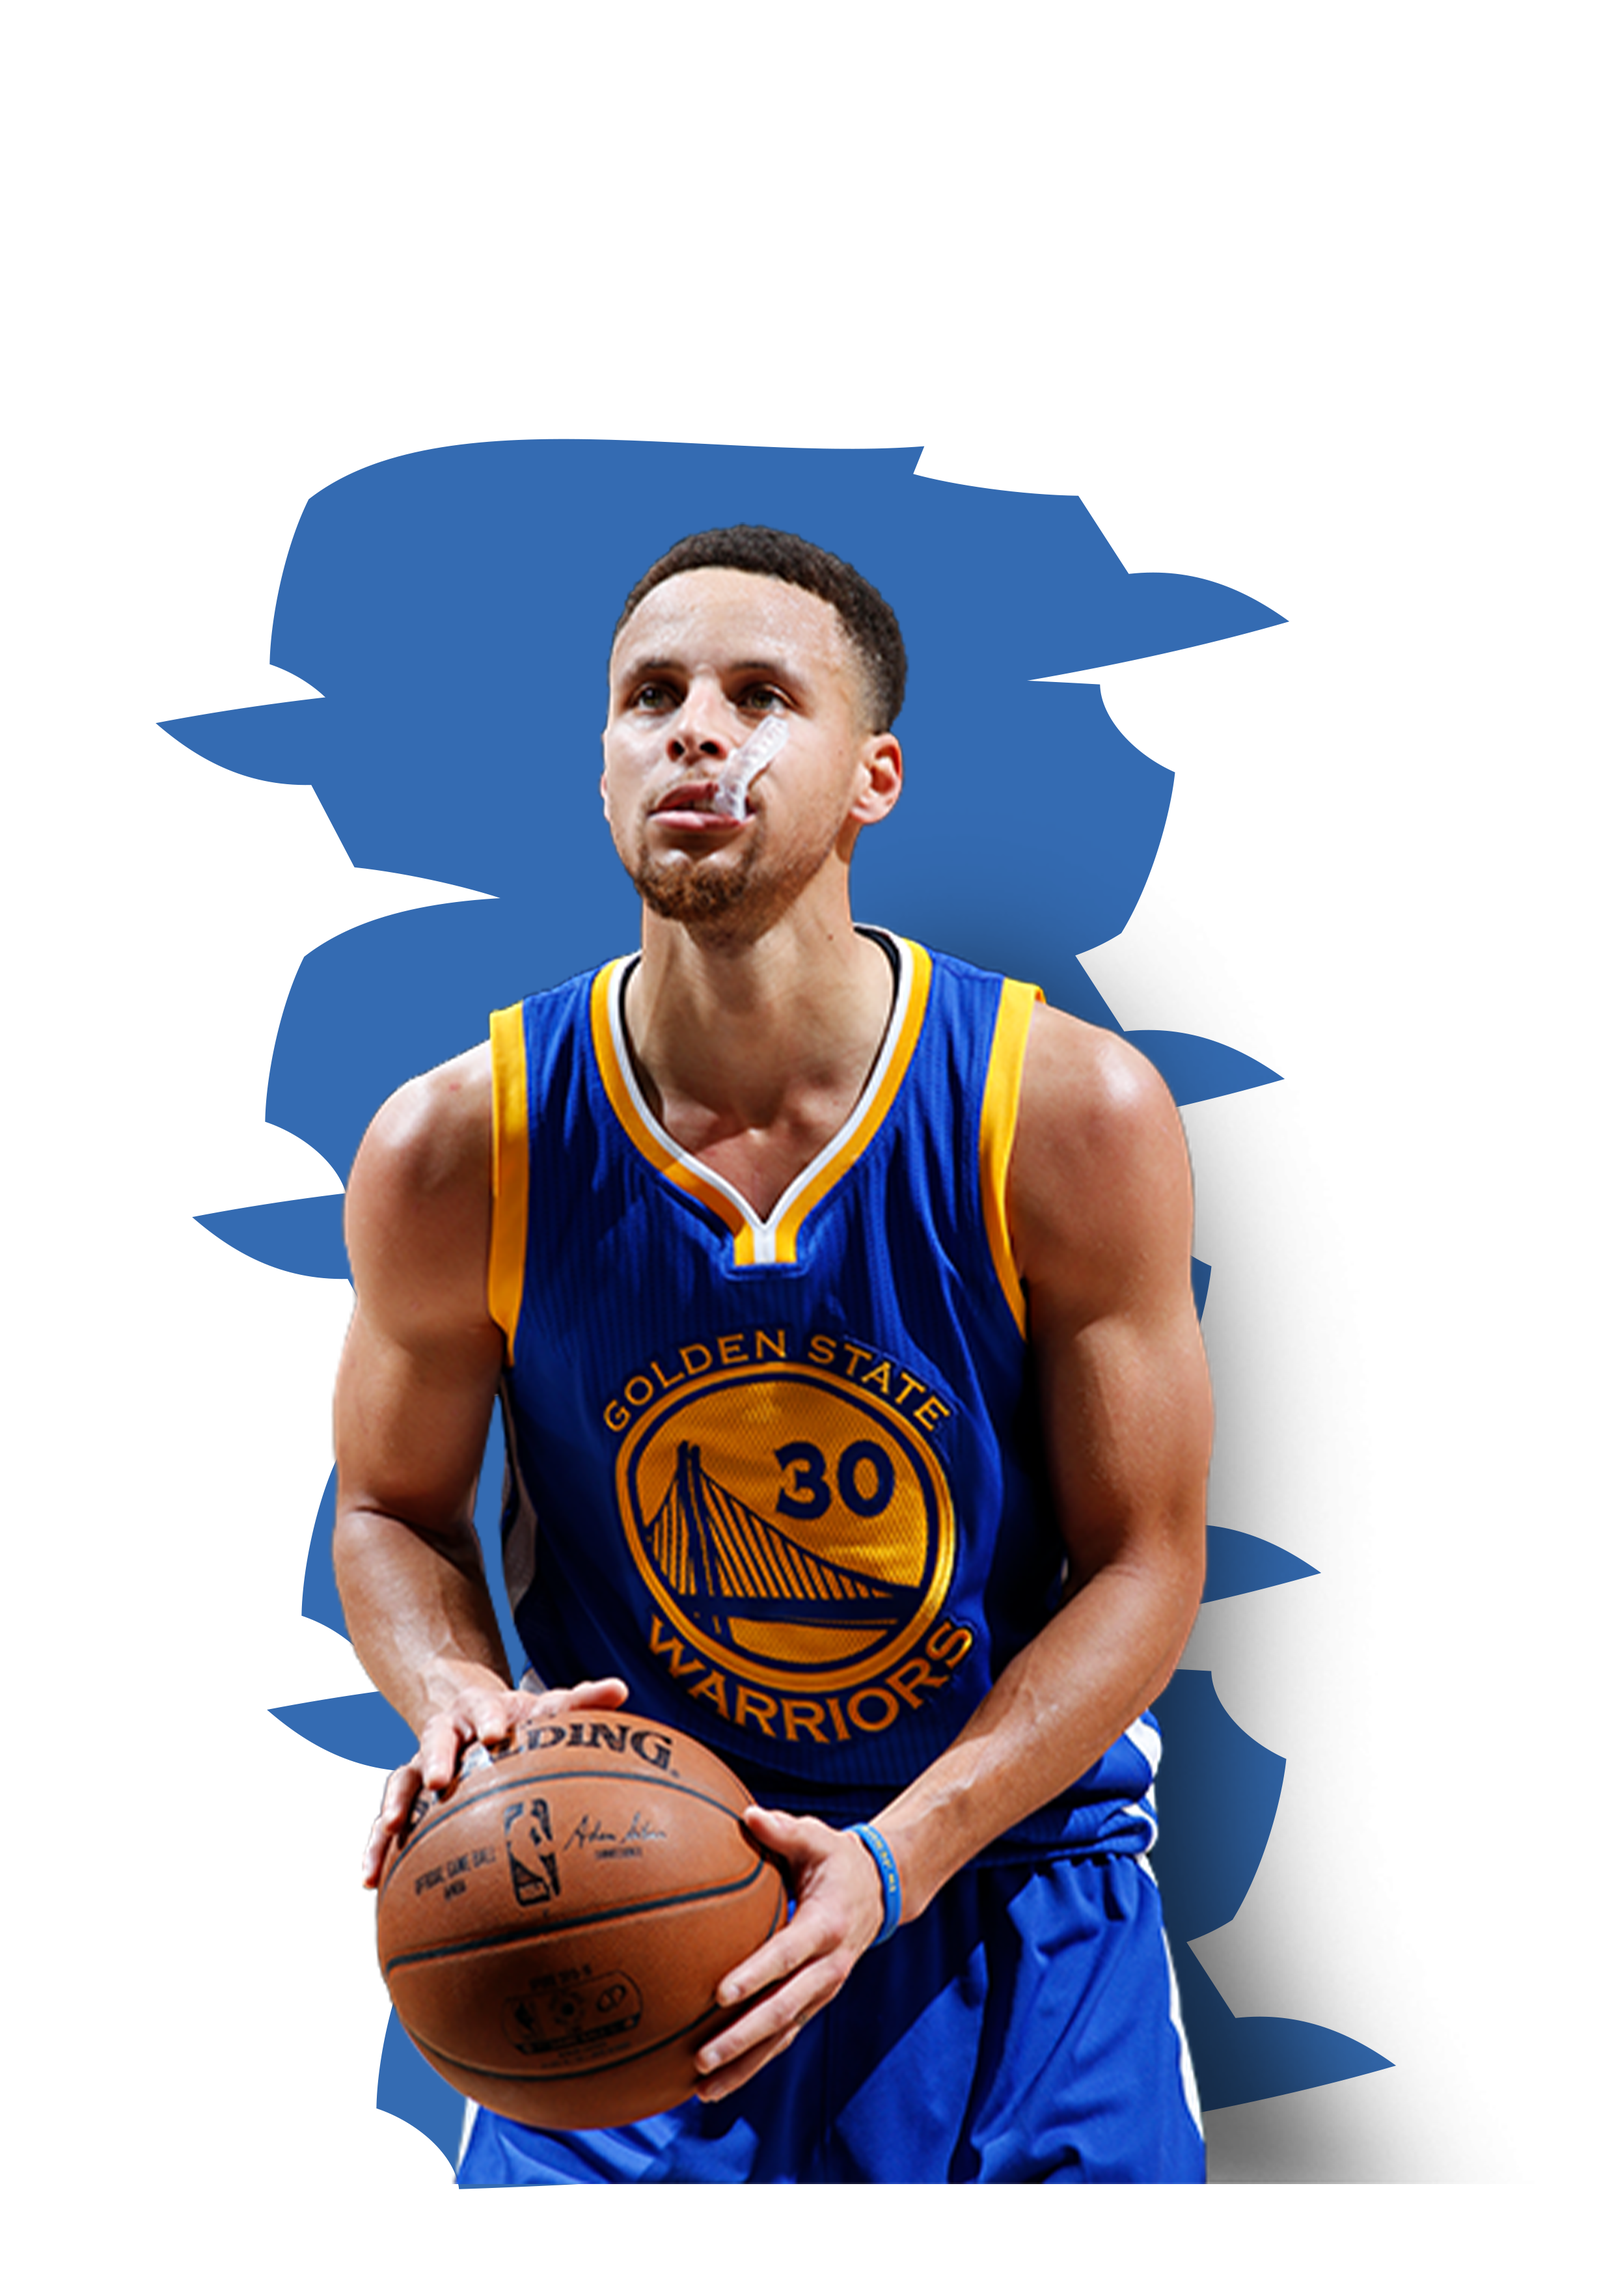
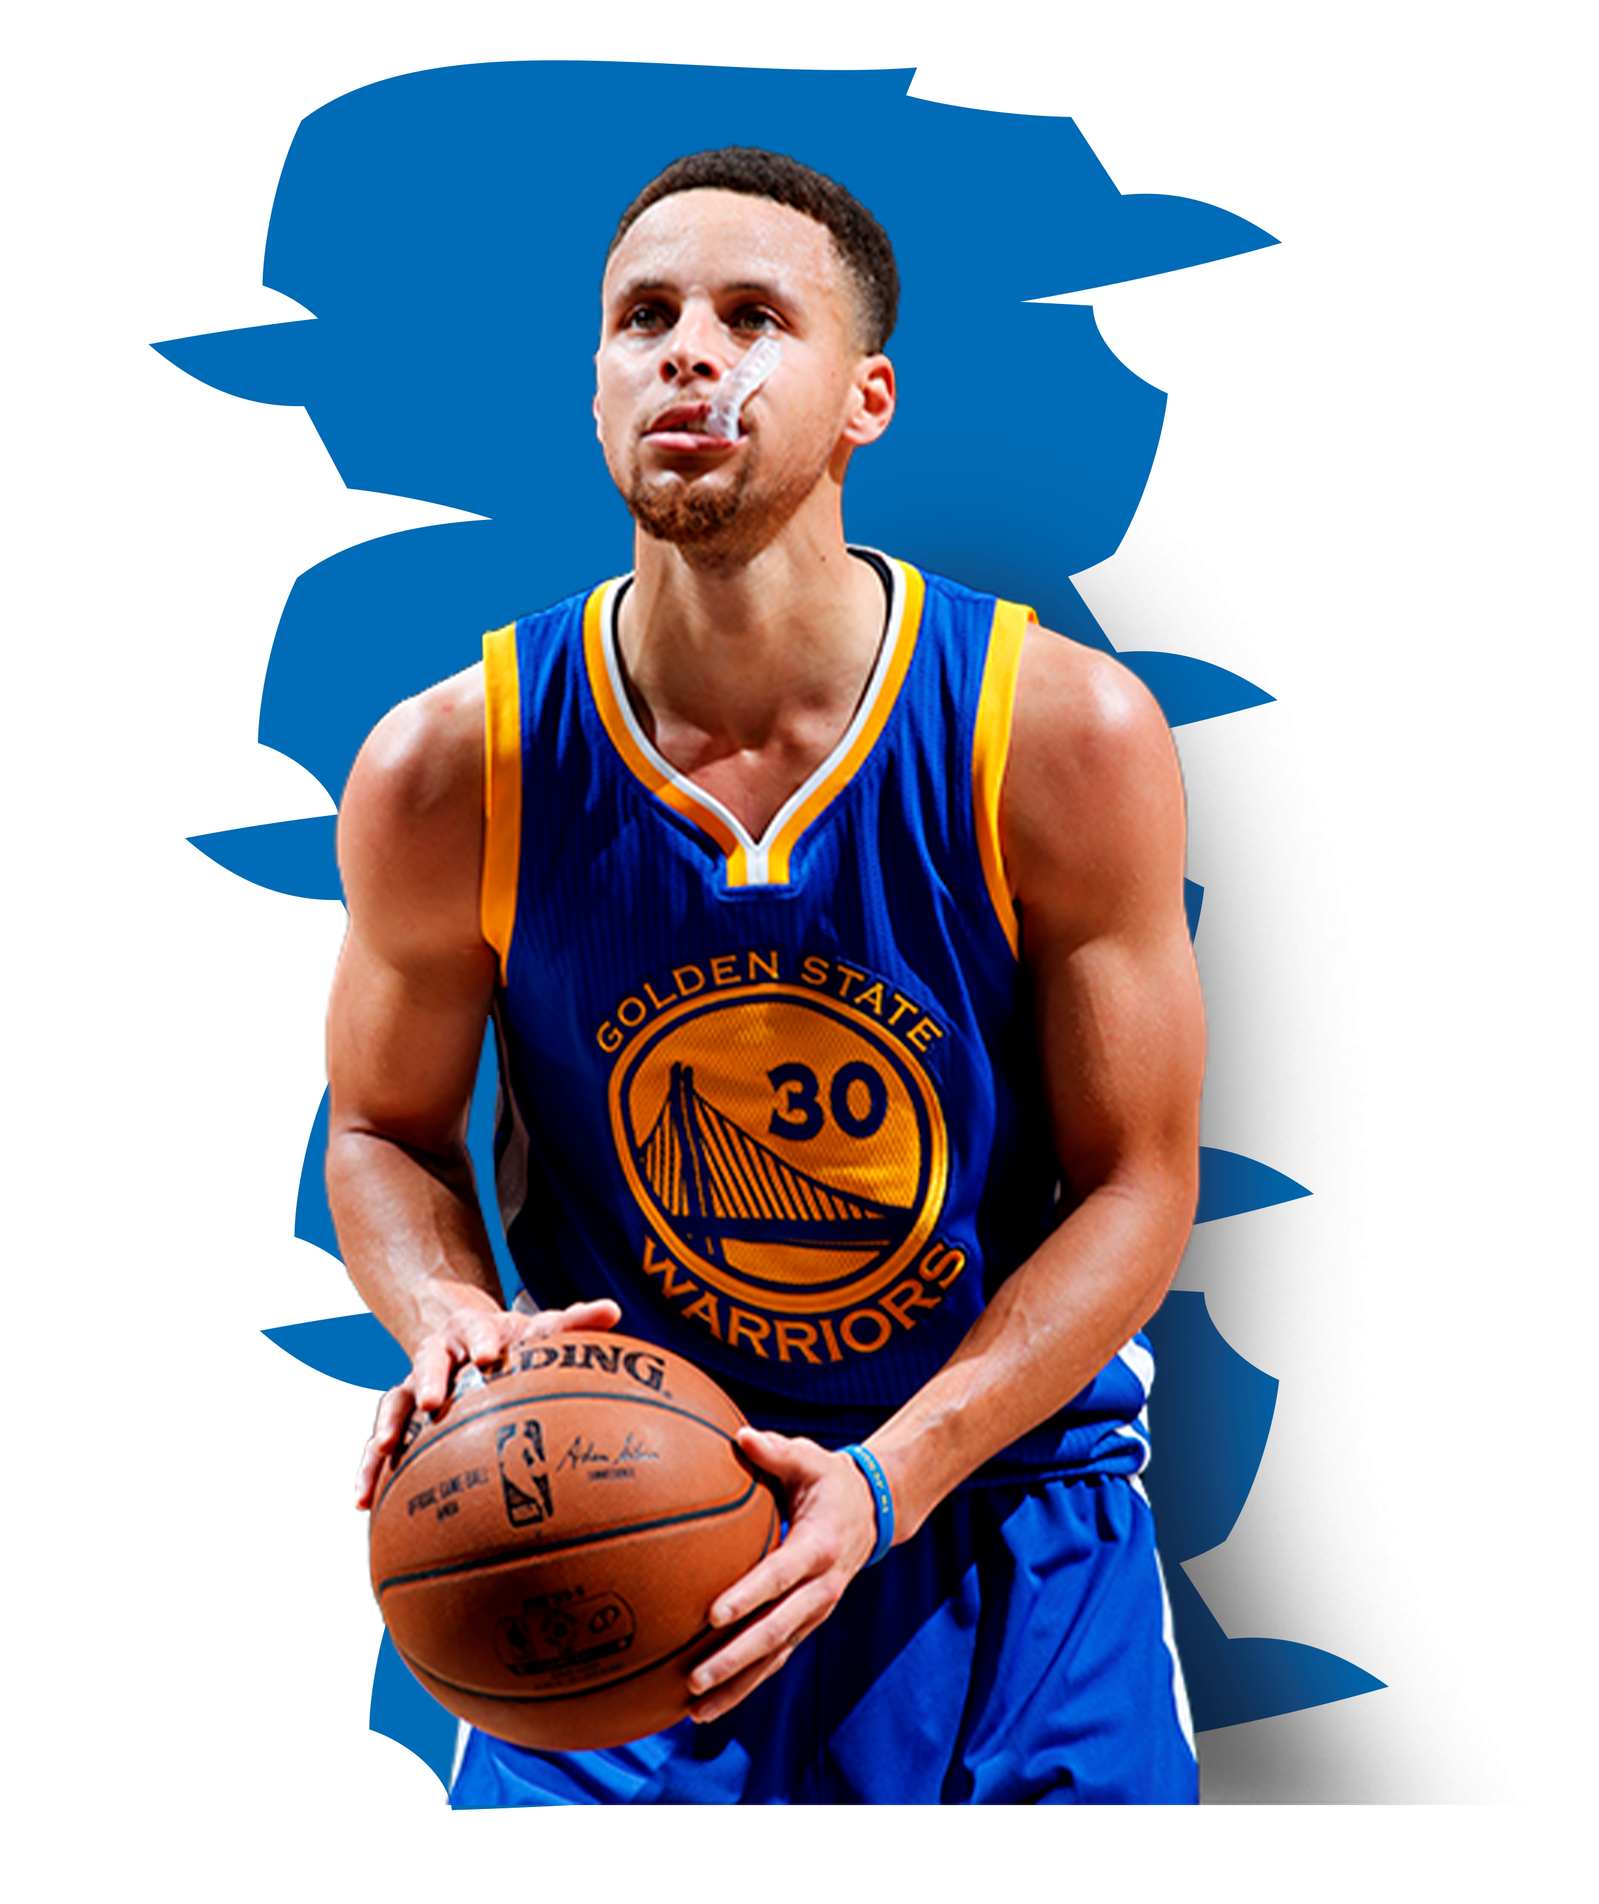
Add files via upload

diff --git a/merch.css b/merch.css
@@ -54,10 +54,9 @@ body{
     height: auto;
 }
 #Imagem.col-lg-3{
-    max-width: 100%;
+    max-width: 40%;
     height: 70%;
     position: inherit;
-    padding-top: 4%;
 
 }
 .text{
